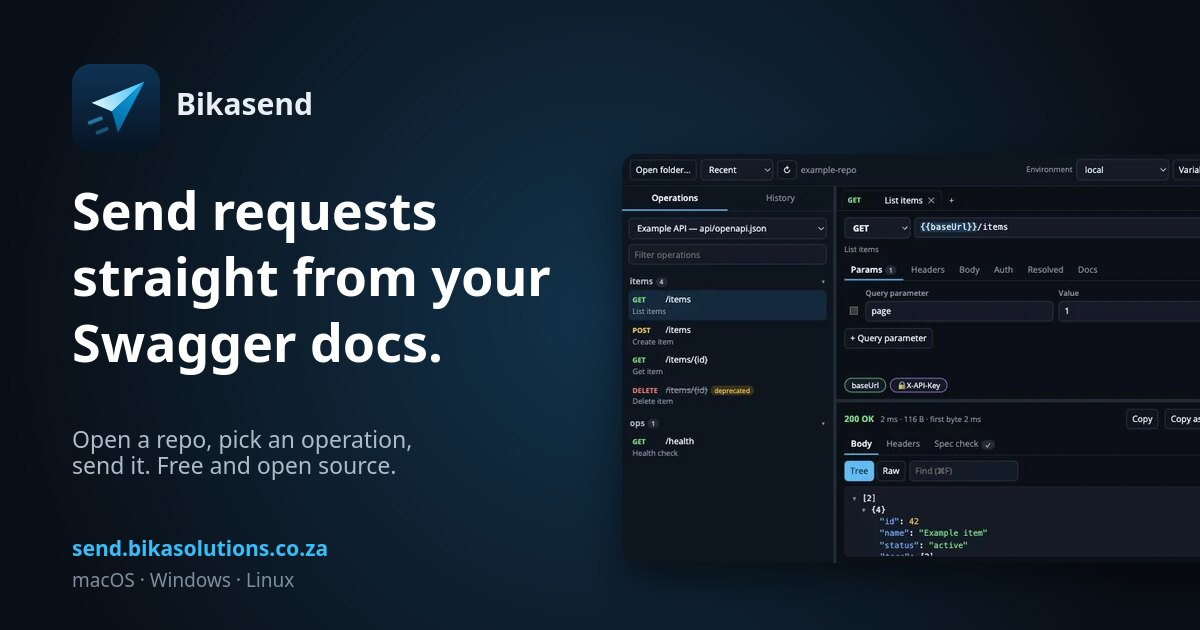
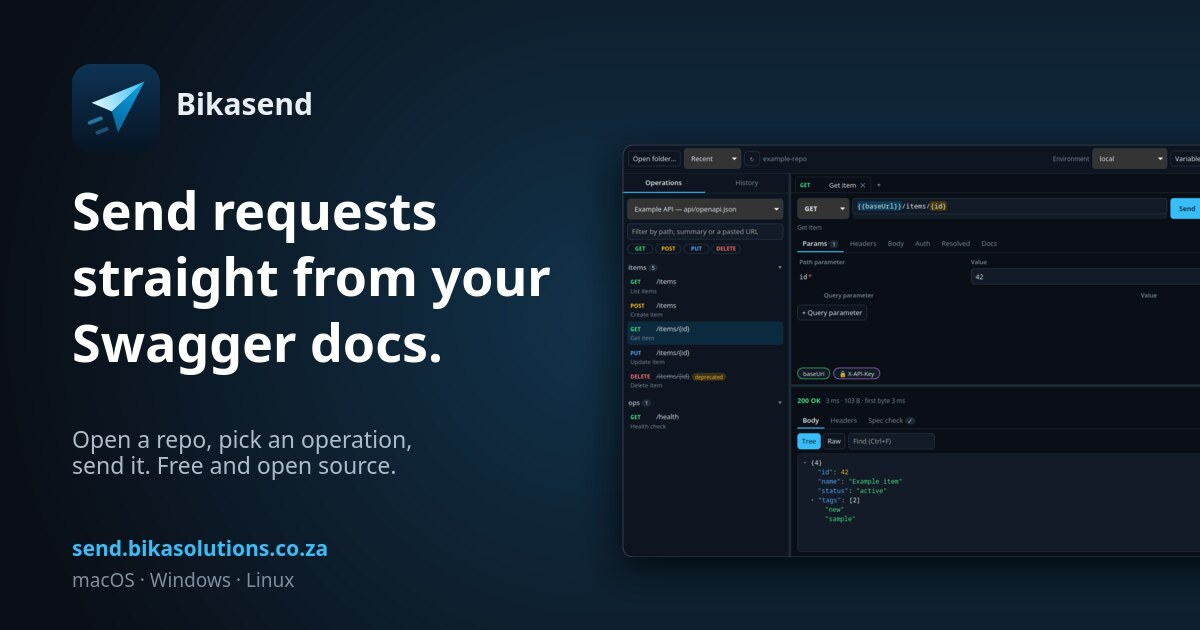
feat(ui): version button in the top bar that lights up for updates; site audit
- Move the version from the sidebar footer (which also showed a stray "null")
  to a top-bar button; it lights up when an update is out, and a click
  checks for or starts the update.
- Retake the hero screenshot and link preview from the current app.
- Site: mention the update check under "offline", how updates work,
  exports turning secrets into environment variables, new hero alt text.
- README wording; macOS LSMinimumSystemVersion 13.0 to match Go and the site.
- Fix stale sources in the website audit table.

diff --git a/internal/site/api/templates/index.html b/internal/site/api/templates/index.html
@@ -40,7 +40,7 @@
     </div>
     <div class="visual">
     <img class="mascot" src="/static/mascot.webp" width="520" height="563" alt="">
-    <img class="shot" src="/static/app.webp" width="800" height="496" alt="Bikasend showing the operations of an example API, a request using {{"{{baseUrl}}"}} and a masked API key, and a JSON response.">
+    <img class="shot" src="/static/app.webp" width="800" height="496" alt="Bikasend in dark mode: the operations of an example API with method filters, a GET {{"{{baseUrl}}"}}/items/{id} request with the {id} path parameter highlighted and a masked API key, and a 200 JSON response.">
     </div>
   </div>
 </section>
@@ -80,7 +80,7 @@
       <div class="card">
         <div class="icon"><svg viewBox="0 0 24 24" fill="none" stroke="currentColor" stroke-width="1.8" stroke-linecap="round" stroke-linejoin="round" aria-hidden="true"><path d="M13 3 4 14h7l-1 7 9-11h-7Z"/></svg></div>
         <h3>Small and fast</h3>
-        <p>About 10 MB, starts instantly and uses your system’s own web view. It works offline, with no account and no telemetry.</p>
+        <p>About 10 MB, starts instantly and uses your system’s own web view. It works offline, with no account and no telemetry. The only call it makes on its own is an update check, which you can turn off in Settings.</p>
       </div>
       <div class="card">
         <div class="icon"><svg viewBox="0 0 24 24" fill="none" stroke="currentColor" stroke-width="1.8" stroke-linecap="round" stroke-linejoin="round" aria-hidden="true"><path d="M7 4c-2 0-3 1-3 3v2c0 1-1 2-2 3 1 1 2 2 2 3v2c0 2 1 3 3 3M17 4c2 0 3 1 3 3v2c0 1 1 2 2 3-1 1-2 2-2 3v2c0 2-1 3-3 3M9 9l6 6M15 9l-6 6"/></svg></div>
@@ -95,7 +95,7 @@
       <div class="card">
         <div class="icon"><svg viewBox="0 0 24 24" fill="none" stroke="currentColor" stroke-width="1.8" stroke-linecap="round" stroke-linejoin="round" aria-hidden="true"><path d="M9 12l2 2 4-4"/><path d="M12 3l8 3v6c0 5-3.5 8-8 9-4.5-1-8-4-8-9V6Z"/></svg></div>
         <h3>Responses checked against the spec</h3>
-        <p>See a JSON tree, search, timing and images, plus every place the response breaks its schema. Copy any request as cURL, PowerShell, HTTPie, JavaScript or Python, with secrets left out.</p>
+        <p>See a JSON tree, search, timing and images, plus every place the response breaks its schema. Copy any request as cURL, PowerShell, HTTPie, JavaScript or Python; secrets become environment variables.</p>
       </div>
     </div>
   </div>
@@ -225,6 +225,10 @@
       <summary>How do I verify a download?</summary>
       <p>Compare the SHA-256 shown next to each download with your file. On macOS and Linux run <code>shasum -a 256 &lt;file&gt;</code>. On Windows run <code>Get-FileHash &lt;file&gt;</code> in PowerShell. Don’t run the file if they don’t match.</p>{{with .Repo}}
       <p>To check that our CI built the file from the tagged source, run <code>gh attestation verify &lt;file&gt; --repo {{.}}</code> with the GitHub CLI. Releases from v0.1.4 onwards carry this signed build provenance.</p>{{end}}
+    </details>
+    <details>
+      <summary>How do updates work?</summary>
+      <p>Bikasend asks this site for a new version when it starts; you can turn that off in Settings. The version in the top bar lights up when one is out. Click it and Bikasend downloads the build for your system, checks its SHA-256 against this site and against the GitHub release, and shows you both. It replaces the app and restarts only when both match and you click. If GitHub can’t confirm the file, Bikasend deletes it.</p>
     </details>
     <details>
       <summary>Which Swagger files does it read?</summary>

diff --git a/internal/bikasend/frontend/dist/app.js b/internal/bikasend/frontend/dist/app.js
@@ -522,12 +522,28 @@ function updateDialog() {
       d.installable ? install : null)));
 }
 
+// renderVersion shows the version in the top bar; it lights up when an update is available.
 function renderVersion() {
-  const el = $('sideFoot');
-  if (!el || !state.ws) return;
+  const b = $('versionBtn');
+  if (!b || !state.ws) return;
   const up = state.update;
-  el.replaceChildren(h('span', { class: 'muted small version' }, 'Bikasend ' + state.ws.version),
-    up && up.available ? h('button', { class: 'update-pill', disabled: !!up.busy, title: `You have ${up.current}`, onclick: startUpdate }, up.busy ? 'Checking…' : `Update to ${up.latest}`) : null);
+  const available = !!(up && up.available);
+  b.classList.toggle('update', available);
+  b.disabled = !!(up && up.busy);
+  b.textContent = available ? (up.busy ? 'Checking…' : `Update to ${up.latest}`) : state.ws.version;
+  b.title = available ? `You have ${up.current}. Download, check and install ${up.latest}.` : `Bikasend ${state.ws.version}. Click to check for updates.`;
+}
+
+async function versionClick() {
+  if (state.update && state.update.available) { startUpdate(); return; }
+  if (!state.ws.settings.checkUpdates) { toast('Update checks are off. Turn them on in Settings.'); return; }
+  try {
+    const up = await api().CheckUpdate();
+    if (up.available) { state.update = up; renderBanners(); return; }
+    toast(up.latest ? `Bikasend ${up.current} is the latest version.` : 'This build does not check for updates.');
+  } catch (e) {
+    toast(errText(e), true);
+  }
 }
 
 function renderBanners() {
@@ -1931,6 +1947,7 @@ function wire() {
     else if (e.key === 'Escape' && varCard.el) hideVarCard();
     else if (e.key === 'Escape' && $('drawer').classList.contains('open') && !$('dialog').open) closeDrawer();
   });
+  $('versionBtn').addEventListener('click', versionClick);
   window.addEventListener('scroll', (e) => { if (varCard.el && !varCard.editing && !varCard.el.contains(e.target)) hideVarCard(); }, true);
   window.addEventListener('blur', () => { if (!varCard.editing) hideVarCard(); });
   document.addEventListener('mousedown', (e) => { if (varCard.el && varCard.editing && !varCard.el.contains(e.target)) hideVarCard(); });

diff --git a/internal/bikasend/frontend/dist/app.css b/internal/bikasend/frontend/dist/app.css
@@ -101,9 +101,13 @@ button:disabled { opacity: .55; cursor: default; }
 .side-tab.active { color: var(--text); border-bottom-color: var(--accent); font-weight: 600; }
 .side-body { flex: 1; overflow: auto; padding: 10px; display: flex; flex-direction: column; gap: 8px; min-height: 0; }
 .side-body select, .side-body input[type=search] { width: 100%; }
-.side-foot { display: flex; align-items: center; justify-content: space-between; gap: 8px; padding: 6px 10px; border-top: 1px solid var(--line); }
-.update-pill { border: 0; border-radius: 999px; padding: 2px 10px; background: var(--accent); color: var(--on-accent); font-weight: 600; font-size: .85em; cursor: pointer; }
-.update-pill:disabled { opacity: .6; cursor: default; }
+.version-btn { border: 1px solid var(--line); border-radius: 999px; padding: 3px 10px; background: none; color: var(--muted); font-size: .85em; }
+.version-btn:hover { color: var(--text); border-color: var(--line-strong); }
+.version-btn.update { background: var(--accent); border-color: var(--accent); color: var(--on-accent); font-weight: 600; }
+.version-btn.update::before { content: ""; display: inline-block; width: 7px; height: 7px; margin-right: 6px; border-radius: 50%; background: currentColor; vertical-align: 1px; animation: pulse 1.6s ease-in-out infinite; }
+.version-btn:disabled { opacity: .7; }
+@keyframes pulse { 50% { opacity: .25; } }
+@media (prefers-reduced-motion: reduce) { .version-btn.update::before { animation: none; } }
 .hashes { border-collapse: collapse; width: 100%; }
 .hashes th { text-align: left; font-weight: 600; color: var(--soft); padding: 4px 8px 4px 0; white-space: nowrap; vertical-align: top; }
 .hashes td { padding: 4px 4px; vertical-align: top; }

diff --git a/internal/bikasend/frontend/dist/index.html b/internal/bikasend/frontend/dist/index.html
@@ -21,6 +21,7 @@
     <button id="aws" class="pill hidden" type="button"></button>
     <button id="varsBtn" class="btn" title="Variables (⌘E / Ctrl+E)">Variables</button>
     <button id="paletteBtn" class="icon-btn" title="Command palette (⌘K / Ctrl+K)" aria-label="Command palette">⌘K</button>
+    <button id="versionBtn" class="version-btn" type="button"></button>
     <button id="settingsBtn" class="icon-btn" title="Settings" aria-label="Settings">⚙</button>
   </div>
 </header>
@@ -32,7 +33,6 @@
       <button class="side-tab" data-tab="history" role="tab">History</button>
     </div>
     <div id="sideBody" class="side-body"></div>
-    <div id="sideFoot" class="side-foot"></div>
   </aside>
   <div class="resizer" id="sideResizer" role="separator" aria-orientation="vertical" aria-label="Resize sidebar" tabindex="0"></div>
   <main class="main" id="main">

diff --git a/internal/bikasend/frontend/embed_test.go b/internal/bikasend/frontend/embed_test.go
@@ -560,7 +560,9 @@ func TestUI(t *testing.T) {
 		t.Errorf("URL = %q, want {{baseUrl}}/items/{id}", url)
 	}
 	waitFor("the empty path param is marked apart from variables", `(() => { const m = [...document.querySelectorAll('.urlbar .hl mark')]; return m.length === 2 && m[0].className === 'ok' && m[1].className === 'param empty' && m[1].textContent === '{id}'; })()`)
-	waitFor("the version shows", `document.querySelector('#sideFoot .version').textContent === 'Bikasend dev'`)
+	waitFor("the version shows in the top bar", `document.querySelector('#versionBtn').textContent === 'dev' && !document.querySelector('#versionBtn').classList.contains('update')`)
+	must("check for updates", d.eval(`document.querySelector('#versionBtn').click()`, nil))
+	waitFor("a dev build says it does not check", `document.querySelector('#toast').textContent === 'This build does not check for updates.'`)
 
 	// Hover {id} in the URL and set it from its card.
 	var paramAt []float64

diff --git a/.agents/rules/90-website-audit.md b/.agents/rules/90-website-audit.md
@@ -39,22 +39,22 @@ A change in one of these areas that leaves the site wrong is a **Blocker** in re
 | AWS Secrets Manager and Parameter Store through the user's `aws` CLI | Features, FAQ | `pkg/awscli`; `LoadSecrets` in `core/http.go` |
 | Secrets only to listed hosts, not over plain http, not along cross-host redirects | Features | `guard` and `CheckRedirect` in `core/http.go` |
 | Refuses secret-looking values in `.bika.json` | FAQ | `guardFileValue` in `core/variables.go` |
-| JSON tree, search, timing, images, spec check; copy as cURL, PowerShell, HTTPie, JavaScript or Python without secrets | Features | `app.js` `renderBody`; `core/validate.go`; `exporters` in `core/curl.go` |
+| JSON tree, search, timing, images, spec check; copy as cURL, PowerShell, HTTPie, JavaScript or Python, secrets as environment variables | Features | `app.js` `renderBody`; `core/validate.go`; `exporters` in `core/curl.go` |
 | Environments and hosts editor, "Always allow" for a host | README | `envPanel`, `send` in `app.js`; `CreateEnvironment`, `SetHosts` in `core/service.go` |
-| Version in the sidebar; update checked against the update site and GitHub, installed on a click | README | `renderVersion`, `updateDialog` in `app.js`; `DownloadUpdate`, `InstallUpdate` in `core/history.go`; `-X main.repo` in `release.yml` |
+| Version in the top bar, lights up for an update; update check at start (can be turned off), checked against the update site and GitHub, installed on a click | Features, FAQ, README | `renderVersion`, `versionClick`, `updateDialog` in `app.js`; `CheckUpdates` default in `core/service.go`; `CheckUpdate`, `DownloadUpdate`, `githubDigest`, `InstallUpdate` in `core/history.go`; `-X main.repo` in `release.yml` |
 | Path params highlighted, set from a hover card | README | `fillHighlight`, `showParamCard` in `app.js` |
 | The hero screenshot shows the current app | Hero | `static/app.webp`: retake it (generic example repo) when the UI changes |
 | Bodies pre-filled from examples, enums, defaults | Features | `example` in `core/swagger.go` |
-| Path, query, header params and auth headers set up | Features | `buildOperation` in `core/swagger.go` |
-| Secrets stay in memory, never on disk or in logs | Features | `remembered` and `store` in `frontend/dist/index.html`; `10-security.md` |
-| No CORS: requests run natively | Features | `Send` in `internal/bikasend/core/service.go` |
-| About 10 MB, offline, no account, no telemetry | Features | `make app` output size; network calls in `frontend/dist/index.html` and `core/` |
-| Remembers the folder; base URL per spec | How it works | `load`/`store` keys in `frontend/dist/index.html` |
+| Path, query, header params and auth headers set up | Features | `operation` in `core/swagger.go` |
+| Secrets stay in memory, never on disk or in logs | Features | `store` in `app.js` (no secrets); `scrubRequest` in `core/history.go`; `10-security.md` |
+| No CORS: requests run natively | Features | `Send` in `core/http.go` |
+| About 10 MB, offline, no account, no telemetry; the only own call is the update check | Features, README | `make app` output size; `api()` calls in `app.js`; `CheckUpdate`, `latestRelease` in `core/history.go` |
+| Remembers the folder; base URL per spec | How it works | `store` keys `server:`, `spec:` in `app.js`; `Recent` in `core/service.go` |
 | Filter by path or summary, toggle methods, paste a URL | How it works | `renderOps`, `pathMatches` and the method filter in `renderSide` (`app.js`) |
-| `⌘ Enter` / `Ctrl Enter` sends; status, time, size, headers, pretty JSON | How it works | `keydown` and `send` in `frontend/dist/index.html`; `Send` in `core/service.go` |
+| `⌘ Enter` / `Ctrl Enter` sends; status, time, size, headers, pretty JSON | How it works | the `keydown` handler in `wire` and `send` in `app.js`; `Send` in `core/http.go` |
 | Platforms offered and architectures ("Universal", "64-bit") | Download | `matrix` in `.github/workflows/release.yml` |
 | Asset names map to macOS / Windows / Linux | Download | `out=` in `release.yml`; `platform` in `internal/site/core/service.go` |
-| macOS minimum version | Download | Go release notes for the `go` version in `go.mod` (Go sets the macOS floor) |
+| macOS minimum version | Download | Go release notes for the `go` version in `go.mod` (Go sets the macOS floor); `LSMinimumSystemVersion` in `build/bikasend/darwin/Info.plist` must match |
 | Windows 10/11, WebView2 runtime | Download, FAQ | Wails version in `go.mod`, its platform docs |
 | Linux GTK 3 + WebKitGTK 4.1 package names | Download, FAQ | `-tags webkit2_41` and `apt-get install` line in `release.yml` |
 | Builds come from CI, from a tagged release | Download | `release.yml` trigger |

diff --git a/README.md b/README.md
@@ -27,8 +27,8 @@
 
 ---
 
-Bikasend opens a repo of services, finds every `swagger.json` and
-`openapi.json` in it, and turns each operation into a ready-to-send request. There are no
+Bikasend opens a repo of services, finds every Swagger and OpenAPI file in it (JSON or YAML),
+and turns each operation into a ready-to-send request. There are no
 collections to build, no accounts and no sync. It's like Postman or Bruno without the parts we
 don't use.
 
@@ -56,14 +56,15 @@ don't use.
 - **History, tabs, command palette (`⌘K`), cURL import.** Copy any request as cURL, PowerShell,
   HTTPie, JavaScript `fetch` or Python `requests`; secrets become environment variable references.
   `⌘ +` / `⌘ −` (`Ctrl` on Windows and Linux) change the text size.
-- **Updates you can trust.** The version sits at the bottom of the sidebar. When a new one is out,
+- **Updates you can trust.** The version sits in the top bar and lights up when a new one is out. Click it and
   Bikasend downloads it for your platform and checks its SHA-256 against both the update site and
   the GitHub release. It shows you both hashes and asks before it replaces the app and restarts.
 - **Secrets stay in memory.** Never written to disk, logs or the web view. Blocked from hosts an
   environment doesn't list unless you confirm the host, from plain http, and from redirects to
   another host or to plain http.
 - **No CORS.** Requests run natively from Go, not from a browser.
-- **Small.** About 10 MB, uses the system web view, works offline.
+- **Small.** About 10 MB, uses the system web view, works offline. The only call it makes on its
+  own is an update check, which you can turn off in Settings.
 
 ## Variables, environments and AWS
 
@@ -126,7 +127,8 @@ From v0.1.4 on, each file also has signed build provenance:
 | Linux, 64-bit | `Bikasend-<tag>-linux-amd64.zip` | `libgtk-3-0`, `libwebkit2gtk-4.1-0` |
 
 Builds are not signed yet. On macOS, open the app once, then go to **System Settings → Privacy &
-Security → Open Anyway**. On Windows, choose **More info → Run anyway**.
+Security → Open Anyway**. On Windows, choose **More info → Run anyway**. Updates you install from
+inside the app are checked against two SHA-256 hashes first (see above).
 
 ## Development
 
